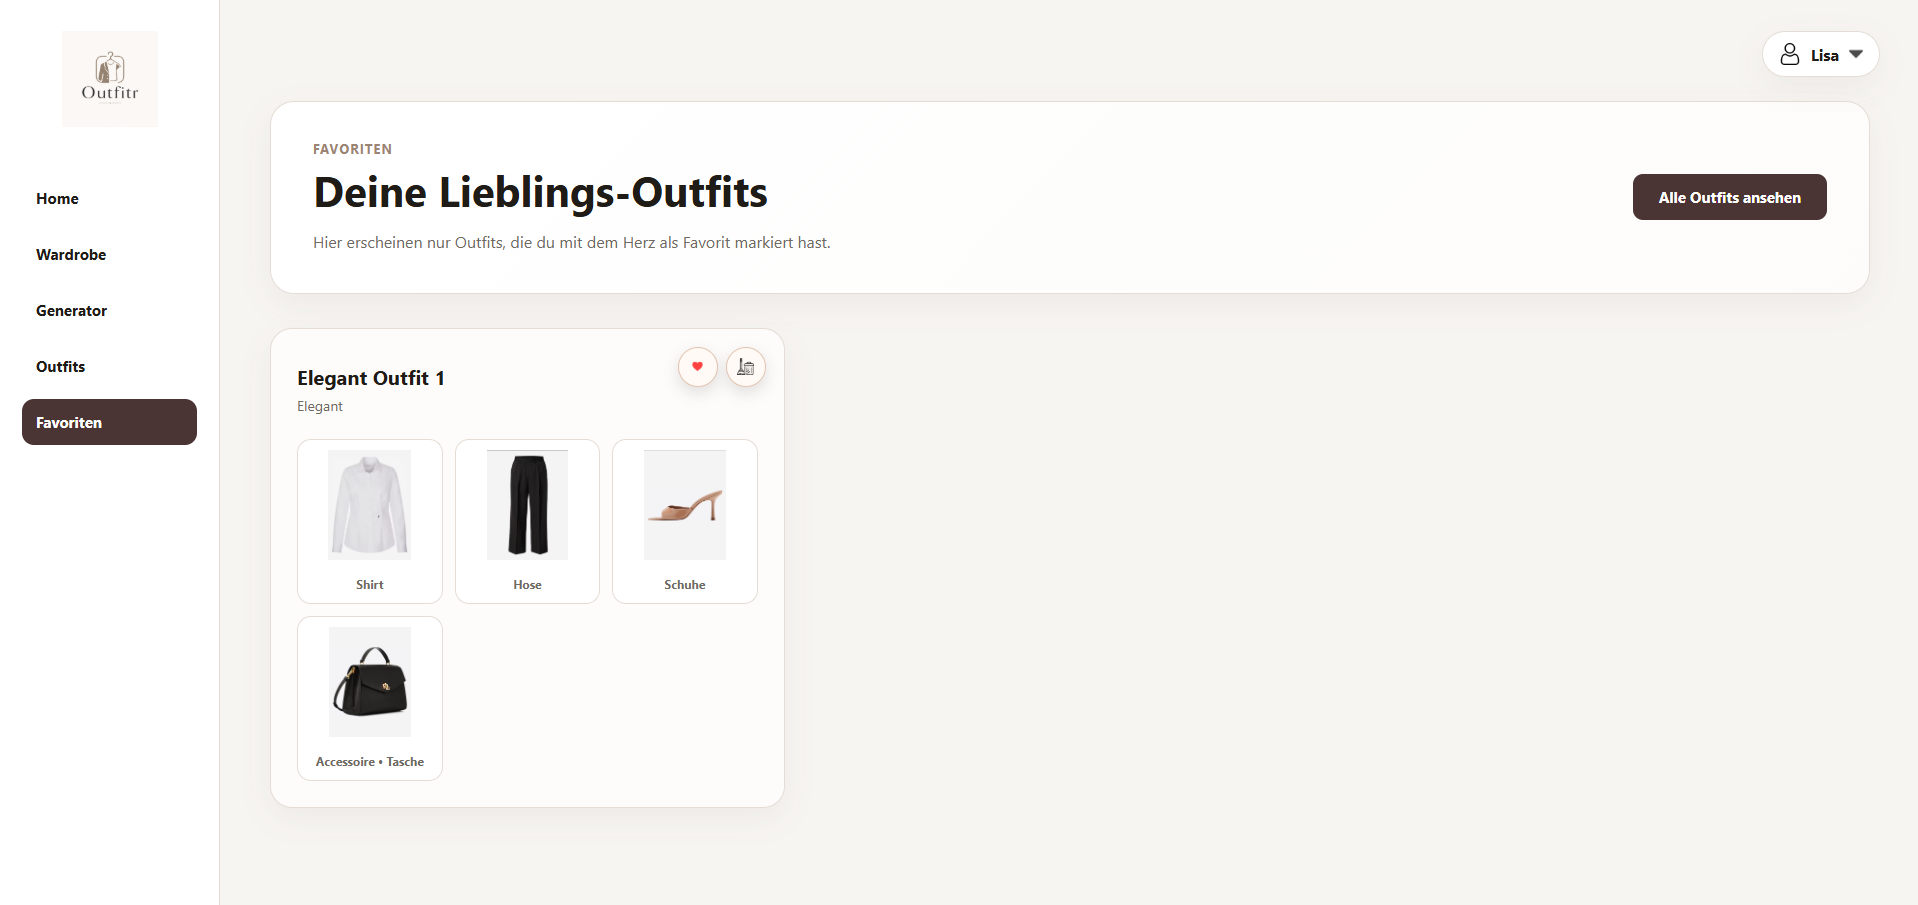
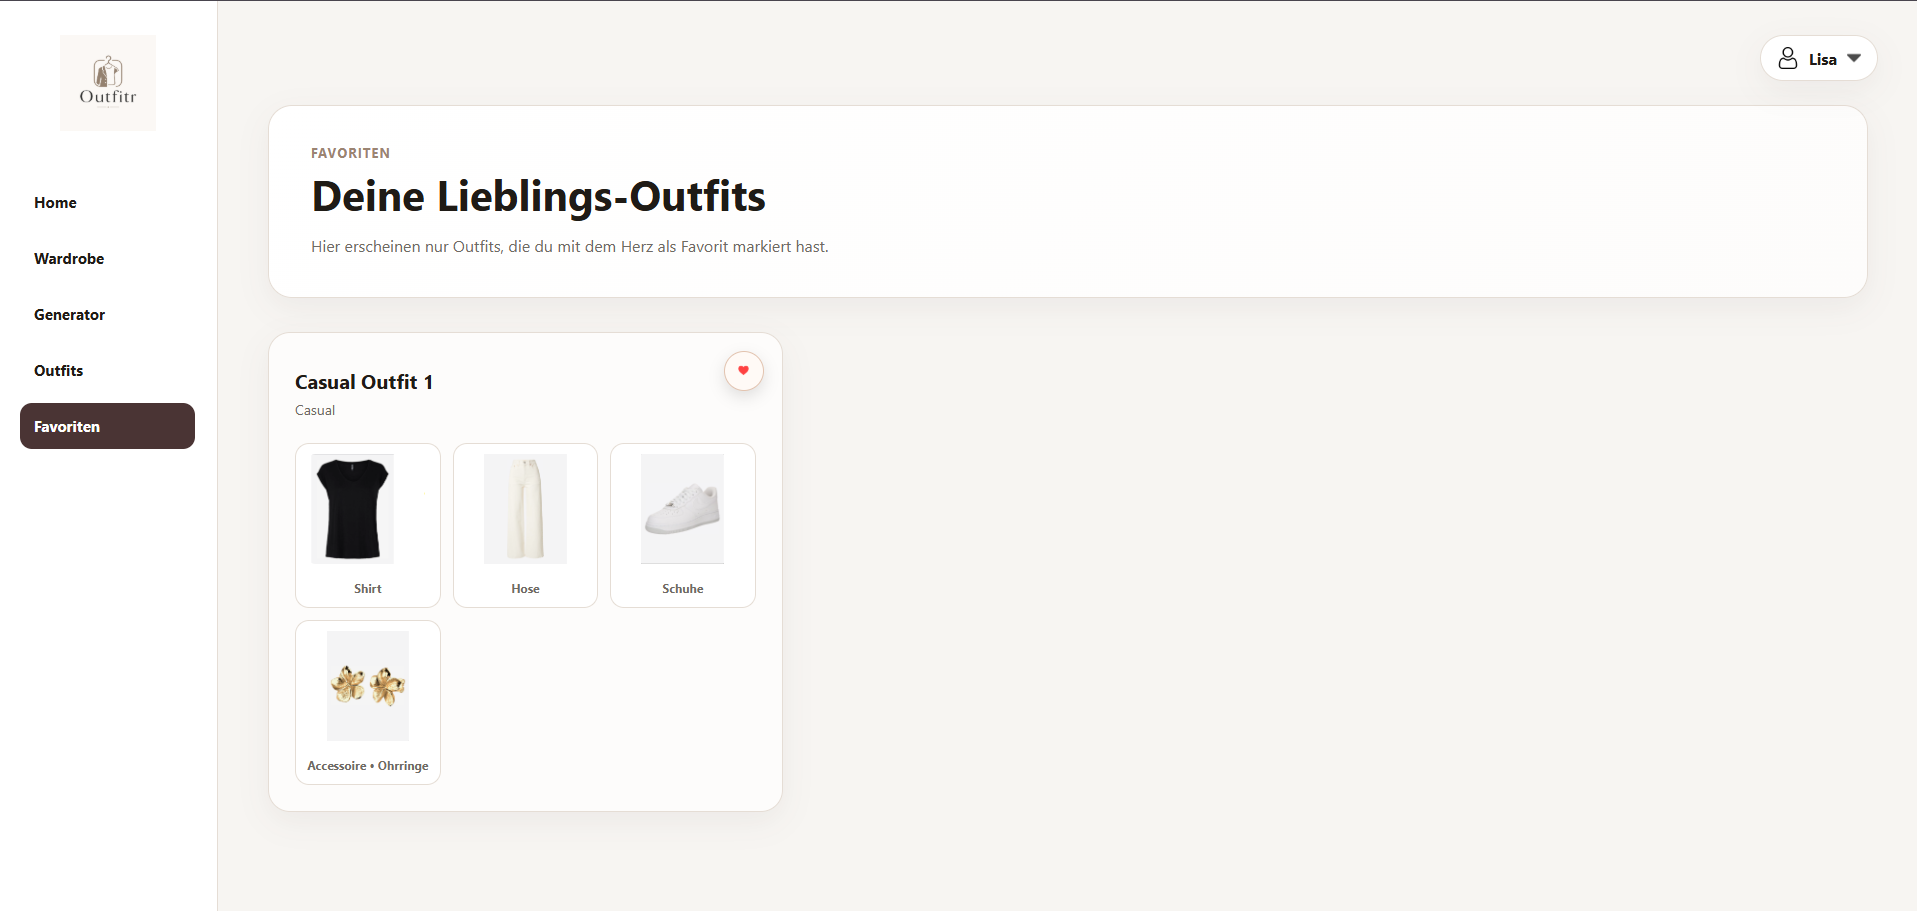
polish(Documentation): adjust chapter 4   - add images

diff --git a/README.md b/README.md
@@ -886,58 +886,127 @@ Zusätzlich wurde der identifizierte HTTP-500-Fehler priorisiert behoben, da die
 
 ### 4.1 Dark Mode
 
-- **Beschreibung & Nutzen:**  
-  Für Outfitr wurde zusätzlich zum normalen Light Mode ein vollständiger Dark Mode umgesetzt. Nutzer:innen können zwischen den beiden Modi wechseln. Dadurch wird die Anwendung moderner, angenehmer für die Augen und individueller nutzbar.
+#### Beschreibung & Nutzen
 
-- **Wo umgesetzt:**
-  - **Frontend:** CSS-Anpassungen für Light- und Dark-Mode in mehreren Seiten und Komponenten
-  - **Frontend:** Dark-Mode-Toggle im User-Menü integriert
-  - **State Management:** Speicherung des gewählten Themes im Browser mittels Local Storage
+Für Outfitr wurde zusätzlich zum standardmässigen Light Mode ein vollständiger Dark Mode umgesetzt. Nutzer:innen können jederzeit zwischen beiden Darstellungsvarianten wechseln und die Anwendung an ihre persönlichen Vorlieben anpassen.
 
-- **Referenz:**
-  - Beschreibung des Designs in Kapitel 3.4.1
-  - Farbpaletten des Light- und Dark-Modes in Kapitel 3.4.1
+Die Erweiterung verbessert insbesondere die Nutzung bei schlechten Lichtverhältnissen und sorgt für eine modernere Benutzererfahrung. Gleichzeitig bietet sie den Nutzer:innen mehr Flexibilität bei der Darstellung der Anwendung.
 
-- **Aus Evaluation abgeleitet?:**  
-  Ja. Während der Evaluation wurden Kontrastprobleme und Schwierigkeiten bei der Lesbarkeit im Dark Mode festgestellt und anschliessend verbessert.
+Die Umsetzung erfolgte bewusst über den ursprünglichen Projektumfang hinaus, da viele moderne Webanwendungen und E-Commerce-Plattformen mittlerweile einen Dark Mode anbieten. Diese Funktion wurde daher als sinnvoller Mehrwert für Outfitr integriert.
+
+---
+
+#### Wo umgesetzt
+
+##### Frontend
+
+- Entwicklung eines vollständigen Dark-Mode-Designs für alle Seiten der Anwendung
+- Anpassung von Farben, Hintergründen, Formularen, Karten, Buttons und Navigationselementen
+- Umsetzung eines Theme-Toggles auf der Landing Page
+- Integration einer Theme-Umschaltung im Profil-Dropdown innerhalb der Anwendung
+
+##### State Management
+
+- Speicherung des gewählten Themes im Browser mittels Local Storage
+- Automatische Wiederherstellung des zuletzt gewählten Themes beim erneuten Öffnen der Anwendung
+
+##### User Interface
+
+- Unterstützung von Light Mode und Dark Mode auf allen zentralen Seiten
+- Konsistente Farbgestaltung über Landing Page, Dashboard, Wardrobe, Generator und Outfits hinweg
+
+---
+
+#### Referenz
+
+##### Landing Page – Light Mode
+
+![Landing Page Light Mode](doc/images/landing-light.png)
+
+_Abbildung X: Landing Page im Light Mode_
+
+##### Landing Page – Dark Mode
+
+![Landing Page Dark Mode](doc/images/landing-dark.png)
+
+_Abbildung X: Landing Page im Dark Mode_
+
+##### Dashboard – Light Mode
+
+![Dashboard Light Mode](doc/images/dashboard-light.png)
+
+_Abbildung X: Dashboard im Light Mode_
+
+##### Dashboard – Dark Mode
+
+![Dashboard Dark Mode](doc/images/dashboard-dark.png)
+
+_Abbildung X: Dashboard im Dark Mode_
+
+Zusätzlich beschrieben in:
+
+- Kapitel 3.4.1 Entwurf (Design)
+- Kapitel 3.4.2 Umsetzung (Technik)
+
+---
+
+#### Aus Evaluation abgeleitet?
+
+Nein. Der Dark Mode wurde bereits während der Entwicklung als zusätzliche Funktion geplant und umgesetzt. Die Erweiterung entstand aus eigenen Designüberlegungen sowie durch die Analyse moderner Webanwendungen und wurde nicht aufgrund von Erkenntnissen aus der Evaluation implementiert.
 
 ---
 
 ### 4.2 Favoriten-System
 
 - **Beschreibung & Nutzen:**  
-  Die Anwendung wurde um ein separates Favoriten-System erweitert. Nutzer:innen können gespeicherte Outfits zusätzlich als Favoriten markieren. Dadurch werden Lieblings-Outfits klar von normalen gespeicherten Outfits getrennt.
+  Die Anwendung wurde um ein separates Favoriten-System erweitert. Nutzer:innen können gespeicherte Outfits zusätzlich als Favoriten markieren. Dadurch werden Lieblings-Outfits klar von normalen gespeicherten Outfits getrennt und können schneller wiedergefunden werden.
+
+  Zusätzlich wurde die Favoriten-Funktion bewusst so umgesetzt, dass ein Outfit beim Entfernen aus den Favoriten nicht aus der Outfit-Verwaltung verschwindet. Wird das Herz-Symbol deaktiviert, bleibt das Outfit weiterhin in der Übersicht der gespeicherten Outfits sichtbar. Dadurch können Nutzer:innen versehentlich entfernte Favoriten jederzeit wieder als Favorit markieren, ohne das Outfit erneut erstellen zu müssen.
 
 - **Wo umgesetzt:**
-  - **Frontend:** Herz-Icon in der Outfit-Verwaltung
-  - **Frontend:** Eigene Favoriten-Seite mit separater Darstellung
-  - **Datenverwaltung:** Speicherung des Favoriten-Status bei Outfits
+  - **Frontend:** Herz-Icon zur Markierung von Favoriten in der Outfit-Verwaltung
+  - **Frontend:** Eigene Favoriten-Seite mit separater Darstellung der Lieblings-Outfits
+  - **Frontend:** Dynamische Aktualisierung des Favoriten-Status in der Benutzeroberfläche
+  - **Datenbank:** Speicherung des Favoriten-Status (`isFavorite`) innerhalb der Outfit-Dokumente in MongoDB
+  - **Backend:** Separate Server-Action zum Hinzufügen und Entfernen von Favoriten
 
 - **Referenz:**
-  - Beschreibung der Informationsarchitektur in Kapitel 3.4.1
-  - Evaluationserkenntnisse in Kapitel 3.5
+  - Kapitel 3.4.1 Informationsarchitektur
+  - Kapitel 3.5 Evaluation
 
 - **Aus Evaluation abgeleitet?:**  
-  Ja. Testpersonen fanden die ursprüngliche Outfit-Seite teilweise verwirrend, weshalb Favoriten separat organisiert wurden.
+  Ja. Während der Evaluation wurde festgestellt, dass die ursprüngliche Outfit-Verwaltung nicht eindeutig zwischen gespeicherten Outfits und Lieblings-Outfits unterschied. Testpersonen äusserten den Wunsch nach einer klareren Trennung. Als Reaktion darauf wurde eine separate Favoriten-Seite eingeführt und die Favoriten-Verwaltung erweitert.
 
 ---
 
 ### 4.3 Accessoires als optionale Ergänzung
 
 - **Beschreibung & Nutzen:**  
-  Der Outfit-Generator wurde erweitert, sodass zusätzlich optionale Accessoires wie Schmuck, Gürtel oder Sonnenbrillen berücksichtigt werden können. Accessoires sind kein Pflichtbestandteil eines Outfits, können jedoch passende Kombinationen ergänzen.
+  Der Outfit-Generator wurde um die Kategorie **Accessoire** erweitert. Neben klassischen Kleidungsstücken wie Shirts, Hosen und Schuhen können Nutzer:innen nun zusätzliche Elemente wie Gürtel, Ketten, Taschen, Sonnenbrillen, Uhren, Mützen, Schals oder Ohrringe verwalten.
+
+  Accessoires sind bewusst als optionale Ergänzung umgesetzt worden und stellen keinen Pflichtbestandteil eines Outfits dar. Dadurch bleiben die generierten Outfits flexibel, können aber bei vorhandenen Accessoires realistischer und vollständiger dargestellt werden.
+
+  Zusätzlich wurde beim Hinzufügen eines neuen Accessoires ein weiteres Formularelement eingeführt. Nach der Auswahl der Kategorie **Accessoire** erscheint automatisch ein zusätzliches Auswahlfeld, über welches der genaue Accessoire-Typ definiert werden kann. Dadurch können verschiedene Accessoires strukturiert gespeichert, ausgewertet und später gezielt in Outfits integriert werden.
 
 - **Wo umgesetzt:**
-  - **Frontend:** Erweiterung der Kategorien und Darstellung
-  - **Logik:** Anpassung der Outfit-Generierung für optionale Accessoires
-  - **Datenstruktur:** Speicherung zusätzlicher Kleidungsarten
+  - **Frontend:** Neue Kategorie „Accessoire“ in der Kleidungsverwaltung
+  - **Frontend:** Dynamische Anzeige eines zusätzlichen Formularfeldes zur Auswahl des Accessoire-Typs
+  - **Frontend:** Darstellung von Accessoires innerhalb generierter Outfits
+  - **Frontend:** Berücksichtigung von Accessoires in den Dashboard-Statistiken
+  - **Backend:** Erweiterung der Outfit-Logik zur optionalen Einbindung passender Accessoires
+  - **Datenbank:** Erweiterung der MongoDB-Dokumente um das Attribut `accessoryType`
 
 - **Referenz:**
-  - Outfit-Generator in Kapitel 3.4.1
-  - Workflow-Beschreibung in Kapitel 3.3
+  - Kapitel 3.3 End-to-End-Ablauf
+  - Kapitel 3.4.1 Benutzeroberfläche und Informationsarchitektur
+  - Abbildung X: Auswahl eines Accessoire-Typs beim Hinzufügen eines neuen Kleidungsstücks
 
 - **Aus Evaluation abgeleitet?:**  
-  Teilweise. Die Erweiterung entstand aus dem Wunsch, Outfits realistischer und vollständiger darzustellen.
+  Nein. Die Erweiterung entstand während der Weiterentwicklung der Anwendung. Bei der Analyse bestehender Mode- und Shopping-Plattformen zeigte sich, dass Accessoires einen wichtigen Bestandteil vollständiger Outfits darstellen. Die Funktion wurde deshalb ergänzt, um die erzeugten Outfit-Kombinationen realistischer und näher an realen Styling-Situationen abzubilden.
+
+![Auswahl des Accessoire-Typs beim Hinzufügen eines neuen Kleidungsstücks](doc/images/accessoire-typ-auswahl.png)
+
+_Abbildung X: Nach Auswahl der Kategorie „Accessoire“ wird automatisch ein zusätzliches Formularfeld eingeblendet, über welches der genaue Accessoire-Typ definiert werden kann. Dadurch können verschiedene Arten von Accessoires strukturiert gespeichert und später bei der Outfit-Generierung berücksichtigt werden._
 
 ---
 
